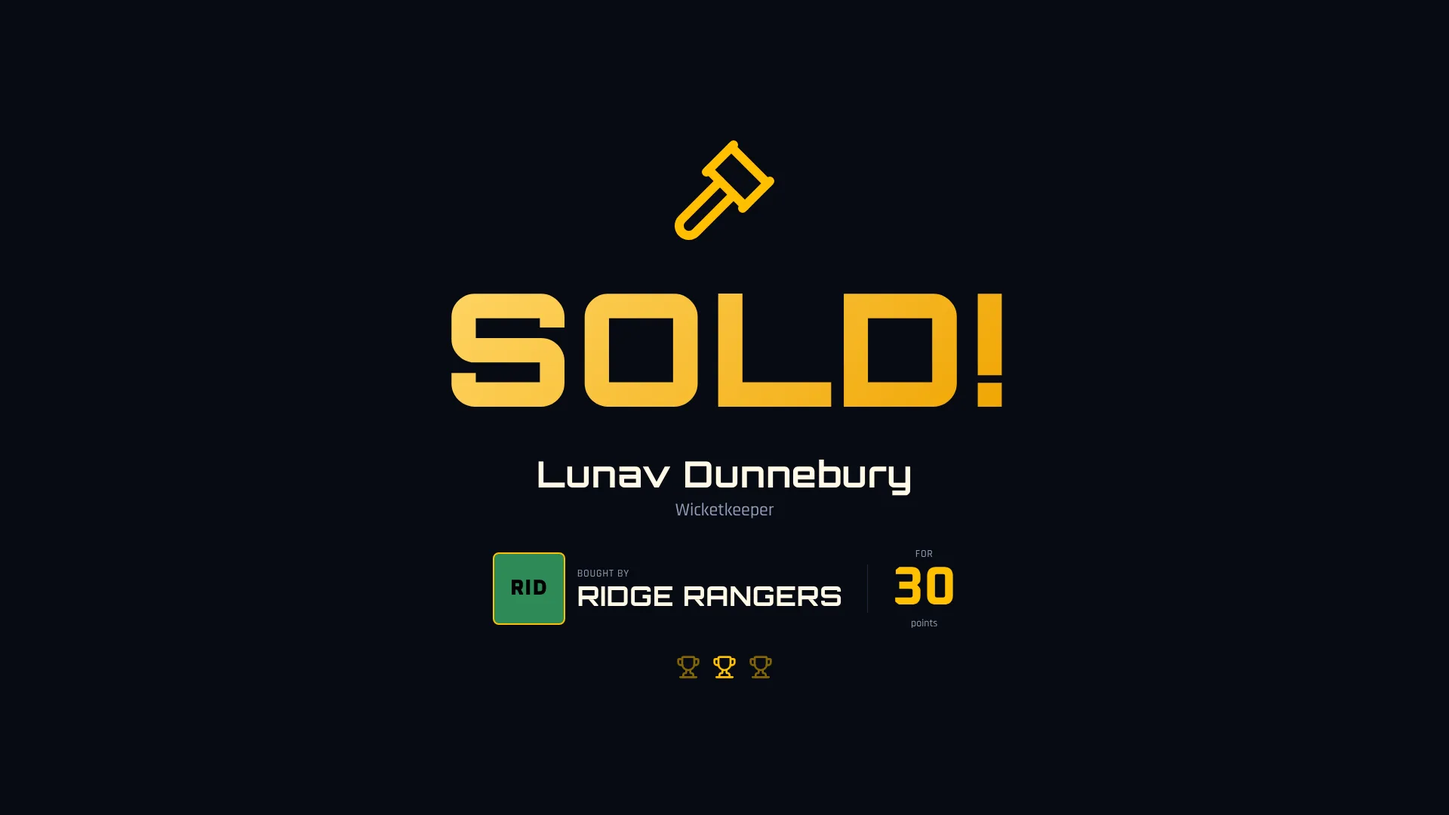
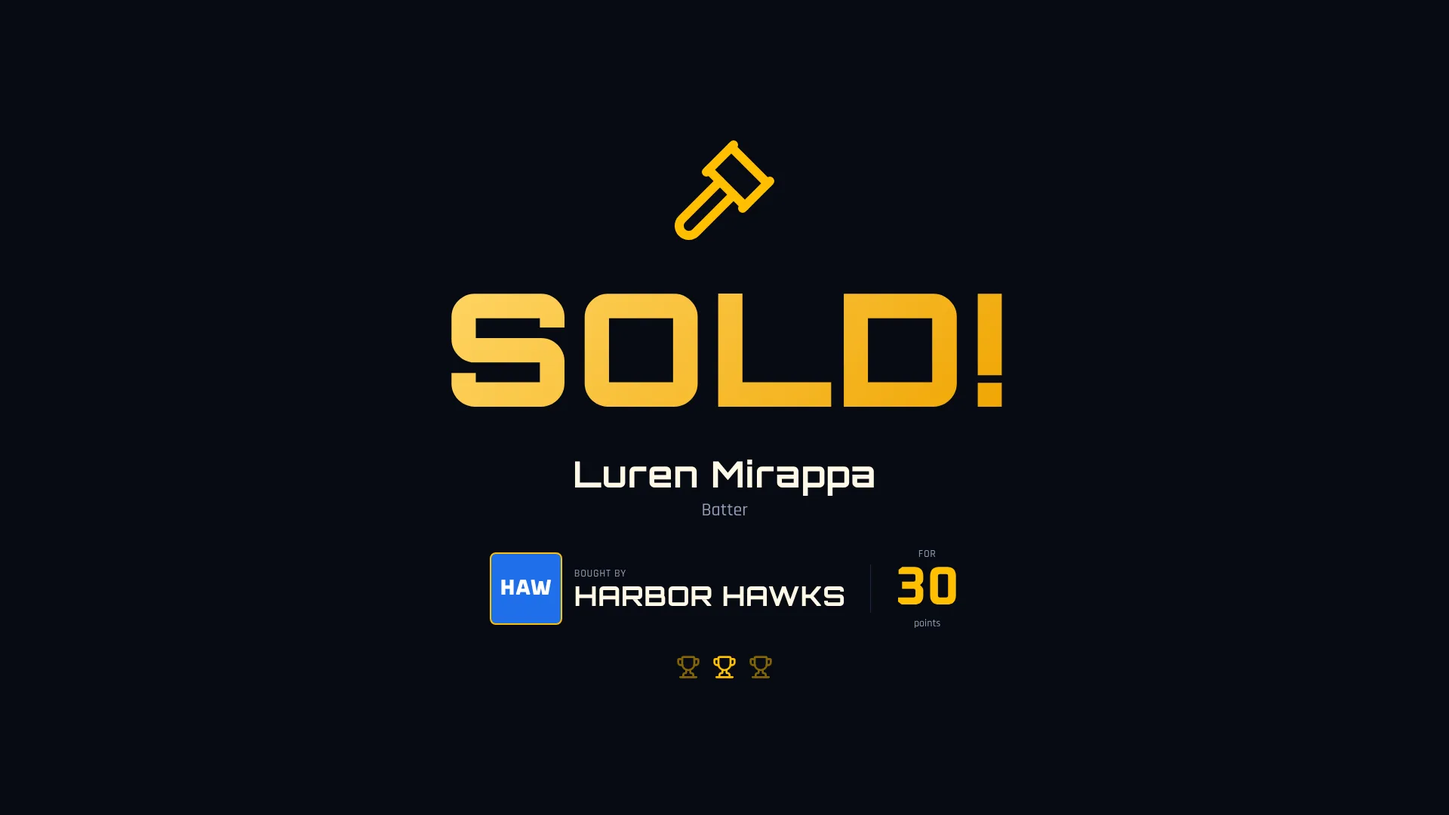
Live page as a one-screen auction room; unsold waits for the timer
- Live page: teams with purses on the left, the player in the middle,
  live activity (bids on this player, recent sales) on the right, each
  side scrolling on its own; phones show player, teams, activity
- mark_unsold refuses while the bid timer has time left (migration
  0006, code TIMER_RUNNING); console disables Unsold with the seconds
  left; health check looks for the new rule
- Tests for the timer rule; demo screenshots retaken

Claude-Session: https://claude.ai/code/session_01RsxGJo4Up38bAYyKZaoQs7

Changed region(s): [[0.3125, 0.6722, 0.5938, 0.7639], [0.375, 0.55, 0.625, 0.6417], [0.625, 0.6722, 0.6562, 0.7639]]

diff --git a/src/components/live/live-view.tsx b/src/components/live/live-view.tsx
@@ -1,6 +1,6 @@
 "use client";
 
-import { Gavel, Globe2, Radio, Users } from "lucide-react";
+import { Globe2, History, Radio, Users } from "lucide-react";
 import Link from "next/link";
 import { useI18n } from "@/components/i18n/i18n-provider";
 import { PlayerAvatar, TeamMark } from "@/components/auction/identity";
@@ -21,12 +21,20 @@ export function LiveView() {
   return (
     <>
       {sold.active ? <SoldMoment snapshot={snapshot} onDismiss={sold.dismiss} /> : null}
-      {/* First screen: only the player on the floor. Sales and standings are below, reached by scrolling. */}
-      <div className="mx-auto max-w-7xl px-4 py-5 sm:px-6 lg:py-6">
-        <FloorPanel />
-        <div className="mt-8 grid grid-cols-[minmax(0,1fr)] gap-6 lg:grid-cols-[minmax(0,1fr)_minmax(0,24rem)]">
-          <RecentSales snapshot={snapshot} />
-          <TeamStandings snapshot={snapshot} />
+      {/*
+        Auction room: teams and purses on the left, the player in the middle,
+        live activity on the right, all on one screen from xl up. Each side
+        column scrolls on its own. Phones: player first, then teams, then activity.
+      */}
+      <div className="mx-auto grid max-w-7xl grid-cols-[minmax(0,1fr)] gap-4 px-4 py-4 sm:px-6 lg:grid-cols-[17rem_minmax(0,1fr)] lg:py-5 xl:h-[max(34rem,calc(100dvh-17.5rem))] xl:grid-cols-[17rem_minmax(0,1fr)_18rem]">
+        <div className="order-1 min-h-0 min-w-0 lg:order-2">
+          <FloorPanel />
+        </div>
+        <div className="order-2 min-h-0 min-w-0 lg:order-1 lg:row-span-2 xl:row-span-1">
+          <TeamsRail snapshot={snapshot} />
+        </div>
+        <div className="order-3 min-h-0 min-w-0">
+          <ActivityFeed snapshot={snapshot} />
         </div>
       </div>
     </>
@@ -35,15 +43,15 @@ export function LiveView() {
 
 function Panel({ title, icon, children, action }: { title: string; icon?: React.ReactNode; children: React.ReactNode; action?: React.ReactNode }) {
   return (
-    <section className="card overflow-hidden" aria-label={title}>
-      <div className="flex items-center justify-between gap-3 border-b border-line px-4 py-3.5">
+    <section className="card flex max-h-[40rem] flex-col overflow-hidden lg:h-full lg:max-h-none" aria-label={title}>
+      <div className="flex shrink-0 items-center justify-between gap-3 border-b border-line px-4 py-3.5">
         <h2 className="flex items-center gap-2 font-sans text-xs font-bold uppercase tracking-[0.18em] text-muted">
           {icon}
           {title}
         </h2>
         {action}
       </div>
-      {children}
+      <div className="min-h-0 flex-1 overflow-y-auto scrollbar-thin">{children}</div>
     </section>
   );
 }
@@ -61,7 +69,7 @@ export function FloorPanel() {
 
   if (!p) {
     return (
-      <section aria-live="polite" className="card-gold flex min-h-96 flex-col lg:h-[max(32rem,calc(100dvh-19rem))] items-center justify-center gap-4 px-6 py-16 text-center">
+      <section aria-live="polite" className="card-gold flex min-h-96 flex-col xl:h-full items-center justify-center gap-4 px-6 py-16 text-center">
         <span className="inline-flex size-24 items-center justify-center rounded-full bg-[color-mix(in_srgb,var(--surface-3)_60%,transparent)] text-muted">
           <Radio className="size-11" aria-hidden="true" />
         </span>
@@ -77,7 +85,7 @@ export function FloorPanel() {
     leader ? t("live.announceBid", { price: formatPoints(f.currentPrice), unit, team: leader.name }) : "";
 
   return (
-    <section aria-label={t("live.tab.live")} className="flex flex-col gap-4">
+    <section aria-label={t("live.tab.live")} className="flex flex-col gap-4 xl:h-full">
       <p className="sr-only" aria-live="polite" aria-atomic="true">{announce}</p>
       <PlayerSpotlight snapshot={snapshot} timerLeft={left} wide />
       {f.phase === "rtm_pending" && rtmTeam ? (
@@ -89,29 +97,50 @@ export function FloorPanel() {
   );
 }
 
-function RecentSales({ snapshot }: { snapshot: Snapshot }) {
+/** Bids on the player on the floor, newest first, then the latest sales. */
+function ActivityFeed({ snapshot }: { snapshot: Snapshot }) {
   const { t } = useI18n();
+  const unit = snapshot.auction.pointsUnitLabel;
+  const bids = snapshot.bids.filter((b) => b.auctionPlayerId === snapshot.floor.currentAuctionPlayerId);
   return (
-    <Panel title={t("live.recentSales")} icon={<Gavel className="size-4 text-accent-text" aria-hidden="true" />}>
-      {snapshot.recentSales.length === 0 ? (
-        <p className="px-4 py-6 text-sm text-muted">{t("live.noSales")}</p>
+    <Panel title={t("live.activity")} icon={<History className="size-4 text-accent-text" aria-hidden="true" />}>
+      <h3 className="px-4 pt-4 font-sans text-[0.7rem] font-bold uppercase tracking-[0.16em] text-faint">{t("live.bidHistory")}</h3>
+      {bids.length === 0 ? (
+        <p className="px-4 py-3 text-sm text-muted">{t("live.noBidsYet")}</p>
       ) : (
-        <ol className="-mb-px -mr-px grid grid-cols-[minmax(0,1fr)] sm:grid-cols-2">
+        <ol className="mt-2">
+          {bids.map((b, i) => {
+            const team = teamById(snapshot, b.teamId);
+            return (
+              <li key={b.id} className={`flex items-center gap-3 border-l-2 px-4 py-2.5 ${i === 0 ? "border-accent bg-[color-mix(in_srgb,var(--accent)_7%,transparent)]" : "border-transparent"}`}>
+                {team ? <TeamMark team={team} size={28} className="rounded-[var(--radius-xs)]" /> : null}
+                <span className="min-w-0 flex-1 truncate text-sm font-bold uppercase tracking-wide">{team?.name}</span>
+                <span className="num shrink-0 font-bold text-accent-text">{formatPoints(b.amount)}</span>
+              </li>
+            );
+          })}
+        </ol>
+      )}
+      <h3 className="mt-2 border-t border-line px-4 pt-4 font-sans text-[0.7rem] font-bold uppercase tracking-[0.16em] text-faint">{t("live.recentSales")}</h3>
+      {snapshot.recentSales.length === 0 ? (
+        <p className="px-4 py-3 text-sm text-muted">{t("live.noSales")}</p>
+      ) : (
+        <ol className="mt-1 divide-y divide-line">
           {snapshot.recentSales.map((s) => {
             const team = teamById(snapshot, s.teamId);
             return (
-              <li key={s.auctionPlayerId} className="flex min-w-0 items-center gap-3 border-b border-r border-line px-4 py-3 hover:bg-surface-2">
-                <PlayerAvatar name={s.fullName} photoPath={s.photoPath} size={44} className="rounded-[var(--radius-sm)]" />
+              <li key={s.auctionPlayerId} className="flex items-center gap-3 px-4 py-3 hover:bg-surface-2">
+                <PlayerAvatar name={s.fullName} photoPath={s.photoPath} size={40} className="rounded-[var(--radius-sm)]" />
                 <div className="min-w-0 flex-1">
-                  <Link href={`/players/${s.playerId}`} className="block truncate font-bold hover:underline">
+                  <Link href={`/players/${s.playerId}`} className="block truncate text-sm font-bold hover:underline">
                     {s.fullName}
                   </Link>
-                  <p className="flex min-w-0 items-center gap-1.5 text-xs font-semibold uppercase tracking-wide text-muted">
-                    {team ? <TeamMark team={team} size={18} className="rounded-full" /> : null}
-                    <span className="truncate">{team?.name}</span>
-                  </p>
+                  <p className="truncate text-xs font-semibold uppercase tracking-wide text-muted">{team ? t("live.soldTo", { team: team.name }) : null}</p>
                 </div>
-                <Price value={s.price} tick={false} className="text-lg font-bold text-accent-text" />
+                <span className="shrink-0 text-right">
+                  <Price value={s.price} tick={false} className="font-bold text-accent-text" />
+                  <span className="block text-[0.7rem] text-faint">{unit}</span>
+                </span>
               </li>
             );
           })}
@@ -121,38 +150,43 @@ function RecentSales({ snapshot }: { snapshot: Snapshot }) {
   );
 }
 
-export function TeamStandings({ snapshot, limit }: { snapshot: Snapshot; limit?: number }) {
+/** Compact team list: rank, logo, name, squad count and purse left with a thin bar. */
+export function TeamsRail({ snapshot }: { snapshot: Snapshot }) {
   const { t } = useI18n();
   const unit = snapshot.auction.pointsUnitLabel;
-  const ranked = [...snapshot.teams].sort((a, b) => b.purseLeft - a.purseLeft || a.name.localeCompare(b.name)).slice(0, limit);
+  const ranked = [...snapshot.teams].sort((a, b) => b.purseLeft - a.purseLeft || a.name.localeCompare(b.name));
+  const leadingId = snapshot.floor.phase === "live" ? snapshot.floor.leadingTeamId : null;
   return (
-    <Panel title={t("live.standings")} icon={<Users className="size-4 text-accent-text" aria-hidden="true" />}>
+    <Panel title={t("live.auctionTeams")} icon={<Users className="size-4 text-accent-text" aria-hidden="true" />}>
       {ranked.length === 0 ? (
         <p className="px-4 py-6 text-sm text-muted">{t("live.noTeams")}</p>
       ) : (
         <ol className="divide-y divide-line">
           {ranked.map((team, i) => (
             <li key={team.id}>
-              <Link href={`/teams/${team.id}`} className={`block border-l-2 px-4 py-3 hover:bg-surface-2 ${snapshot.floor.leadingTeamId === team.id && snapshot.floor.phase === "live" ? "border-accent bg-[color-mix(in_srgb,var(--accent)_8%,transparent)]" : "border-transparent"}`}>
-                <div className="flex items-center gap-3">
-                  <span className={`num inline-flex size-7 shrink-0 items-center justify-center rounded-full text-sm font-bold ${rankClass(i)}`} aria-label={t("live.rank", { n: i + 1 })}>
+              <Link
+                href={`/teams/${team.id}`}
+                className={`block border-l-2 px-3 py-2.5 hover:bg-surface-2 ${leadingId === team.id ? "border-accent bg-[color-mix(in_srgb,var(--accent)_8%,transparent)]" : "border-transparent"}`}
+              >
+                <div className="flex items-center gap-2.5">
+                  <span className={`num inline-flex size-6 shrink-0 items-center justify-center rounded-full text-xs font-bold ${rankClass(i)}`} aria-label={t("live.rank", { n: i + 1 })}>
                     {i + 1}
                   </span>
-                  <TeamMark team={team} size={40} className="rounded-[var(--radius-sm)]" />
+                  <TeamMark team={team} size={34} className="rounded-[var(--radius-sm)]" />
                   <div className="min-w-0 flex-1">
-                    <p className="truncate text-[0.95rem] font-bold uppercase leading-tight tracking-wide" title={team.name}>{team.name}</p>
+                    <p className="truncate text-sm font-bold uppercase leading-tight tracking-wide" title={team.name}>{team.name}</p>
                     <p className="sr-only">{t("live.squadLine", { n: team.squadCount, max: snapshot.auction.squadMax, o: team.overseasCount })}</p>
-                    <p aria-hidden="true" className="num mt-1 flex items-center gap-2.5 text-xs font-semibold text-muted">
-                      <span className="inline-flex items-center gap-1"><Users className="size-3.5" />{team.squadCount}/{snapshot.auction.squadMax}</span>
-                      {snapshot.auction.maxOverseas > 0 ? <span className="inline-flex items-center gap-1"><Globe2 className="size-3.5" />{team.overseasCount}/{snapshot.auction.maxOverseas}</span> : null}
+                    <p aria-hidden="true" className="num mt-0.5 flex items-center gap-2 text-[0.7rem] font-semibold text-muted">
+                      <span className="inline-flex items-center gap-1"><Users className="size-3" />{team.squadCount}/{snapshot.auction.squadMax}</span>
+                      {snapshot.auction.maxOverseas > 0 ? <span className="inline-flex items-center gap-1"><Globe2 className="size-3" />{team.overseasCount}/{snapshot.auction.maxOverseas}</span> : null}
                     </p>
                   </div>
                   <div className="shrink-0 text-right">
-                    <Price value={team.purseLeft} tick={false} className="text-lg font-bold text-accent-text" />
-                    <p className="text-xs text-muted">{t("live.unitLeft", { unit })}</p>
+                    <Price value={team.purseLeft} tick={false} className="text-base font-bold text-accent-text" />
+                    <p className="text-[0.65rem] uppercase tracking-wide text-faint">{t("live.unitLeft", { unit })}</p>
                   </div>
                 </div>
-                <div className="mt-2.5">
+                <div className="mt-2 pl-[2.1rem]">
                   <Meter value={team.purseLeft} max={team.purseTotal} tone={purseTone(team.purseLeft, team.purseTotal)} label={t("live.purseLeftPct", { team: team.name, pct: team.purseTotal ? Math.round((team.purseLeft / team.purseTotal) * 100) : 0 })} />
                 </div>
               </Link>

diff --git a/src/components/admin/auction-console.tsx b/src/components/admin/auction-console.tsx
@@ -43,6 +43,8 @@ export function AuctionConsole({ initial, auctionId }: { initial: ConsoleSnapsho
   const leader = teamById(snapshot, f.leadingTeamId);
   const rtmTeam = teamById(snapshot, f.rtmTeamId);
   const left = useCountdown(f.phase === "live" ? f.timerEndsAt : null, serverNow);
+  // Unsold waits for the timer: the engine refuses it while time is left (migration 0006).
+  const timerRunning = (f.phase === "live" && left !== null && left > 0) || (f.phase === "paused" && (f.pausedRemainingMs ?? 0) > 0);
   const auctionRunning = f.auctionStatus === "live";
   const floorBusy = f.phase === "live" || f.phase === "paused" || f.phase === "rtm_pending";
   const unsoldCount = snapshot.counts.unsold;
@@ -242,13 +244,18 @@ export function AuctionConsole({ initial, auctionId }: { initial: ConsoleSnapsho
                 {moreOpen ? <MoreActions disabled={busy} onReturn={() => confirm({ title: `Take ${p.fullName} off the floor?`, consequences: ["The player goes back to the list without a result.", leader ? "All bids on this player are voided and kept in the history." : "There are no bids to void."], confirmLabel: "Take off the floor", danger: true, input: () => ({ action: "return_to_pool", auctionId, auctionPlayerId: p.auctionPlayerId, expectedVersion: v }) })} onAssign={() => setAssignOpen(true)} /> : null}
 
                 <div className="grid grid-cols-2 gap-3 border-t border-line pt-4">
-                  <Button variant="danger" size="xl" disabled={busy || Boolean(leader)} icon={<X className="size-5" aria-hidden="true" />} onClick={() => confirm({ title: `Mark ${p.fullName} unsold?`, consequences: ["Nobody has bid. The player goes to the unsold list and can be auctioned again later."], confirmLabel: "Mark unsold", input: () => ({ action: "mark_unsold", auctionId, expectedVersion: v }) })}>
+                  <Button variant="danger" size="xl" disabled={busy || Boolean(leader) || timerRunning} aria-describedby={timerRunning && !leader ? "unsold-wait" : undefined} icon={<X className="size-5" aria-hidden="true" />} onClick={() => confirm({ title: `Mark ${p.fullName} unsold?`, consequences: ["Nobody has bid. The player goes to the unsold list and can be auctioned again later."], confirmLabel: "Mark unsold", input: () => ({ action: "mark_unsold", auctionId, expectedVersion: v }) })}>
                     Unsold
                   </Button>
                   <Button variant="sold" size="xl" disabled={busy || !leader} icon={<Check className="size-5" aria-hidden="true" />} onClick={() => leader && confirm({ title: `Sell ${p.fullName} to ${leader.name}?`, consequences: [`${leader.name} buys ${p.fullName} for ${formatPoints(f.currentPrice)} ${unit}.`, `${leader.name}'s purse goes down by ${formatPoints(f.currentPrice)}.`], confirmLabel: `Sold to ${leader.shortName}`, input: () => ({ action: "mark_sold", auctionId, expectedVersion: v }) })}>
                     Sold
                   </Button>
                 </div>
+                {timerRunning && !leader ? (
+                  <p id="unsold-wait" className="text-sm text-muted">
+                    No bids yet. Unsold unlocks when the timer runs out{f.phase === "live" && left !== null ? ` (${left}s)` : ""}.
+                  </p>
+                ) : null}
                 {leader ? <p className="-mt-3 text-xs text-muted">Unsold is available only while nobody has bid. Use Undo last bid first if needed.</p> : null}
               </>
             ) : null}

diff --git a/tests/db/bid-engine.test.ts b/tests/db/bid-engine.test.ts
@@ -156,7 +156,10 @@ describe("floor controls", () => {
     expect(back.ok).toBe(true);
     const voided = await sql`select count(*)::int c from app.bids where auction_player_id = ${players[0]!.id} and voided`;
     expect(voided[0]!.c).toBe(1);
-    const f2 = await openPlayer(sql, auctionId, players[1]!.id);
+    await openPlayer(sql, auctionId, players[1]!.id);
+    // The timer must have run out before an unsold call is accepted.
+    await sql`update app.floor_state set timer_ends_at = null where auction_id = ${auctionId}`;
+    const f2 = await floor(sql, auctionId);
     expect((await call(sql, "mark_unsold", [auctionId, f2.version, "test"])).ok).toBe(true);
   });
 
@@ -397,5 +400,39 @@ describe("access control", () => {
     await sql`update app.team_access_codes set active = true where id = ${code[0]!.id}`;
     await sql`update app.team_sessions set revoked_at = now() where id = ${sid}`;
     expect((await managerBid(own, b.floor.version)).code).toBe("NOT_AUTHORISED");
+  });
+});
+
+describe("mark_unsold waits for the timer", () => {
+  it("refuses while time is left, allows once it runs out", async () => {
+    const { auctionId, players } = await liveAuction(sql);
+    await openPlayer(sql, auctionId, players[0]!.id);
+    await sql`update app.floor_state set timer_ends_at = clock_timestamp() + interval '20 seconds' where auction_id = ${auctionId}`;
+    let f = await floor(sql, auctionId);
+    const early = await call(sql, "mark_unsold", [auctionId, f.version, "test"]);
+    expect(early.ok).toBe(false);
+    expect(early.code).toBe("TIMER_RUNNING");
+    const ap = await sql`select status from app.auction_players where id = ${players[0]!.id}`;
+    expect(ap[0]!.status).toBe("on_floor");
+
+    await sql`update app.floor_state set timer_ends_at = clock_timestamp() - interval '1 second' where auction_id = ${auctionId}`;
+    f = await floor(sql, auctionId);
+    expect((await call(sql, "mark_unsold", [auctionId, f.version, "test"])).ok).toBe(true);
+  });
+
+  it("refuses while paused with time left", async () => {
+    const { auctionId, players } = await liveAuction(sql);
+    await openPlayer(sql, auctionId, players[0]!.id);
+    await sql`update app.floor_state set phase = 'paused', timer_ends_at = null, paused_remaining_ms = 9000 where auction_id = ${auctionId}`;
+    const f = await floor(sql, auctionId);
+    expect((await call(sql, "mark_unsold", [auctionId, f.version, "test"])).code).toBe("TIMER_RUNNING");
+  });
+
+  it("is the admin's call when the auction has no timer", async () => {
+    const { auctionId, players } = await liveAuction(sql);
+    await openPlayer(sql, auctionId, players[0]!.id);
+    await sql`update app.floor_state set timer_ends_at = null where auction_id = ${auctionId}`;
+    const f = await floor(sql, auctionId);
+    expect((await call(sql, "mark_unsold", [auctionId, f.version, "test"])).ok).toBe(true);
   });
 });

diff --git a/src/components/live/player-spotlight.tsx b/src/components/live/player-spotlight.tsx
@@ -50,7 +50,7 @@ export function PlayerSpotlight({
         {sold ? t("phase.sold") : unsold ? t("phase.unsold") : (p.category ?? p.setName ?? snapshot.auction.sportName)}
       </p>
 
-      <div className={wide ? "md:grid md:grid-cols-[minmax(0,1.1fr)_minmax(0,1fr)] lg:min-h-0 lg:flex-1" : ""}>
+      <div className={wide ? "md:grid md:grid-cols-[minmax(0,0.85fr)_minmax(0,1fr)] lg:min-h-0 lg:flex-1" : ""}>
       <div className={`relative bg-[color-mix(in_srgb,var(--surface-2)_70%,transparent)] ${lg ? "p-5" : "p-4 sm:p-5"} ${wide ? "md:border-r md:border-line lg:h-full lg:min-h-0" : ""}`}>
         <PlayerPhoto
           name={p.fullName}
@@ -80,20 +80,20 @@ export function PlayerSpotlight({
         ) : null}
       </div>
 
-      <div className={`flex flex-col gap-3 ${lg ? "p-5" : "p-4 sm:p-5"} ${wide ? "md:justify-center md:gap-6 md:p-8 lg:overflow-y-auto" : ""}`}>
+      <div className={`flex flex-col gap-3 ${lg ? "p-5" : "p-4 sm:p-5"} ${wide ? "md:justify-center md:gap-5 md:p-6 lg:overflow-y-auto" : ""}`}>
         <div>
-          <h2 id="spotlight-name" className={`${wide ? "text-3xl sm:text-4xl xl:text-5xl" : `truncate ${lg ? "text-3xl xl:text-4xl" : "text-2xl"}`}`}>{p.fullName}</h2>
+          <h2 id="spotlight-name" className={`${wide ? "text-3xl sm:text-4xl xl:text-[2.6rem]" : `truncate ${lg ? "text-3xl xl:text-4xl" : "text-2xl"}`}`}>{p.fullName}</h2>
           <p className="mt-1 text-sm text-muted">
             {[p.category, t(`nationality.${p.nationalityGroup}`)].filter(Boolean).join(" / ")}
           </p>
         </div>
 
         {statFields.length ? (
-          <dl className={wide ? "grid grid-cols-2 gap-2 sm:grid-cols-4 md:grid-cols-2 xl:grid-cols-4" : "grid grid-cols-4 gap-2 rounded-[var(--radius-sm)] bg-[color-mix(in_srgb,var(--surface-3)_45%,transparent)] px-2 py-2"}>
+          <dl className={wide ? "grid grid-cols-2 gap-2 sm:grid-cols-4 md:grid-cols-2" : "grid grid-cols-4 gap-2 rounded-[var(--radius-sm)] bg-[color-mix(in_srgb,var(--surface-3)_45%,transparent)] px-2 py-2"}>
             {statFields.map((s) => (
               <div key={s.key} className={`flex min-w-0 flex-col ${wide ? "rounded-[var(--radius-sm)] border border-line bg-surface-2 px-3 py-3" : "text-center"}`}>
                 <dt className={`order-2 truncate text-muted ${wide ? "mt-1 text-xs font-bold uppercase tracking-[0.14em]" : "text-xs"}`}>{s.label}</dt>
-                <dd className={`num order-1 font-bold ${wide ? "text-3xl" : "text-lg"}`}>{formatStat(p.stats[s.key]) || "0"}</dd>
+                <dd className={`num order-1 font-bold ${wide ? "text-2xl xl:text-3xl" : "text-lg"}`}>{formatStat(p.stats[s.key]) || "0"}</dd>
               </div>
             ))}
           </dl>

diff --git a/src/app/api/health/route.ts b/src/app/api/health/route.ts
@@ -53,7 +53,8 @@ export async function GET() {
         checks.database = { ok: true, detail: "Connected to the database." };
         const [m] = await sql<{ tables: boolean; latest: boolean; sports: number }[]>`
           select to_regclass('app.auctions') is not null as tables,
-                 to_regprocedure('app.admin_delete_team(uuid,uuid,text)') is not null as latest,
+                 coalesce((select p.prosrc like '%TIMER_RUNNING%' from pg_proc p
+                   where p.oid = to_regprocedure('app.mark_unsold(uuid,bigint,text)')), false) as latest,
                  case when to_regclass('app.sports') is not null then (select count(*)::int from app.sports) else 0 end as sports`;
         checks.migrations = !m?.tables
           ? { ok: false, detail: "The tables are not there. Run npm run db:migrate from your computer with this DATABASE_URL." }

diff --git a/src/lib/i18n/dictionaries/hi.ts b/src/lib/i18n/dictionaries/hi.ts
@@ -217,6 +217,9 @@ const hi: Dictionary = {
     purseUsed: "{team} ने अपने पर्स का {pct}% इस्तेमाल किया",
     bidHistory: "इस खिलाड़ी की बोलियाँ",
     upNext: "अगले खिलाड़ी",
+    activity: "लाइव गतिविधि",
+    auctionTeams: "नीलामी की टीमें",
+    soldTo: "{team} को बिका",
   },
   meta: {
     screen: "बड़ी स्क्रीन के लिए {name} का प्रोजेक्टर व्यू: मंच पर खिलाड़ी, मौजूदा बोली, टीमों के पर्स और हर बिक्री।",

diff --git a/src/lib/i18n/dictionaries/kn.ts b/src/lib/i18n/dictionaries/kn.ts
@@ -217,6 +217,9 @@ const kn: Dictionary = {
     purseUsed: "{team} ತನ್ನ ಪರ್ಸ್ನ {pct}% ಬಳಸಿದೆ",
     bidHistory: "ಈ ಆಟಗಾರನ ಬಿಡ್ಗಳು",
     upNext: "ಮುಂದಿನವರು",
+    activity: "ನೇರ ಚಟುವಟಿಕೆ",
+    auctionTeams: "ಹರಾಜಿನ ತಂಡಗಳು",
+    soldTo: "{team} ಗೆ ಮಾರಾಟ",
   },
   meta: {
     screen: "ದೊಡ್ಡ ಪರದೆಗಾಗಿ {name} ನ ಪ್ರೊಜೆಕ್ಟರ್ ನೋಟ: ವೇದಿಕೆಯ ಆಟಗಾರ, ಈಗಿನ ಬಿಡ್, ತಂಡಗಳ ಪರ್ಸ್ ಮತ್ತು ಪ್ರತಿ ಮಾರಾಟ.",

diff --git a/src/lib/i18n/dictionaries/en.ts b/src/lib/i18n/dictionaries/en.ts
@@ -219,6 +219,9 @@ const en = {
     purseUsed: "{team} has used {pct}% of its purse",
     bidHistory: "Bids for this player",
     upNext: "Up next",
+    activity: "Live activity",
+    auctionTeams: "Auction teams",
+    soldTo: "Sold to {team}",
   },
   meta: {
     screen: "Projector view of {name} for a big screen: the player on the floor, the current bid, team purses and each sale.",

diff --git a/docs/decisions.md b/docs/decisions.md
@@ -2,8 +2,11 @@
 
 Non-obvious choices, newest first.
 
-## Live page: the player owns the first screen
-On desktop the live page opens on one card sized to the screen: the player's photo fills the left half and the name, stats, base price, current bid and leading team sit large on the right. Recent sales and team standings start below it, so they are reached by scrolling. The owner asked for the photo and stats to be big and clear. On phones the photo comes first and the same order follows.
+## Live page is an auction room on one screen
+From 1280 px wide the live page is three columns that fit the screen: auction teams with purse left, squad and overseas counts on the left; the player on the floor in the middle (large photo, name, stats, base price, current bid, leading team); live activity on the right (bids on this player, then recent sales). Each side column scrolls on its own, so purses stay visible at all times. The owner first asked for sales below the fold, then pointed out that team purses must stay in view, using a crickauction.in room screenshot as the reference. On phones the order is player, teams, activity.
+
+## Unsold waits for the timer; sold and unsold are always the admin's call
+Nothing sells or unsells a player automatically. `mark_unsold` (migration 0006) refuses with TIMER_RUNNING while the bid timer still has time left, live or paused, so a player is never dropped while owners may still bid. With no timer set, the admin decides. The console disables Unsold and shows the seconds left.
 
 ## Sale sound is the CPL gavel, off until switched on
 The gavel hit is the Web Audio synth from the owner's CPL site (a low-passed thud plus a short noise burst), played twice on each sale. No sound file is shipped. Browsers refuse to play sound before a tap, so it is off until the viewer presses "Sale sound"; the choice is remembered in the browser and shared by the live page and the projector screen.
